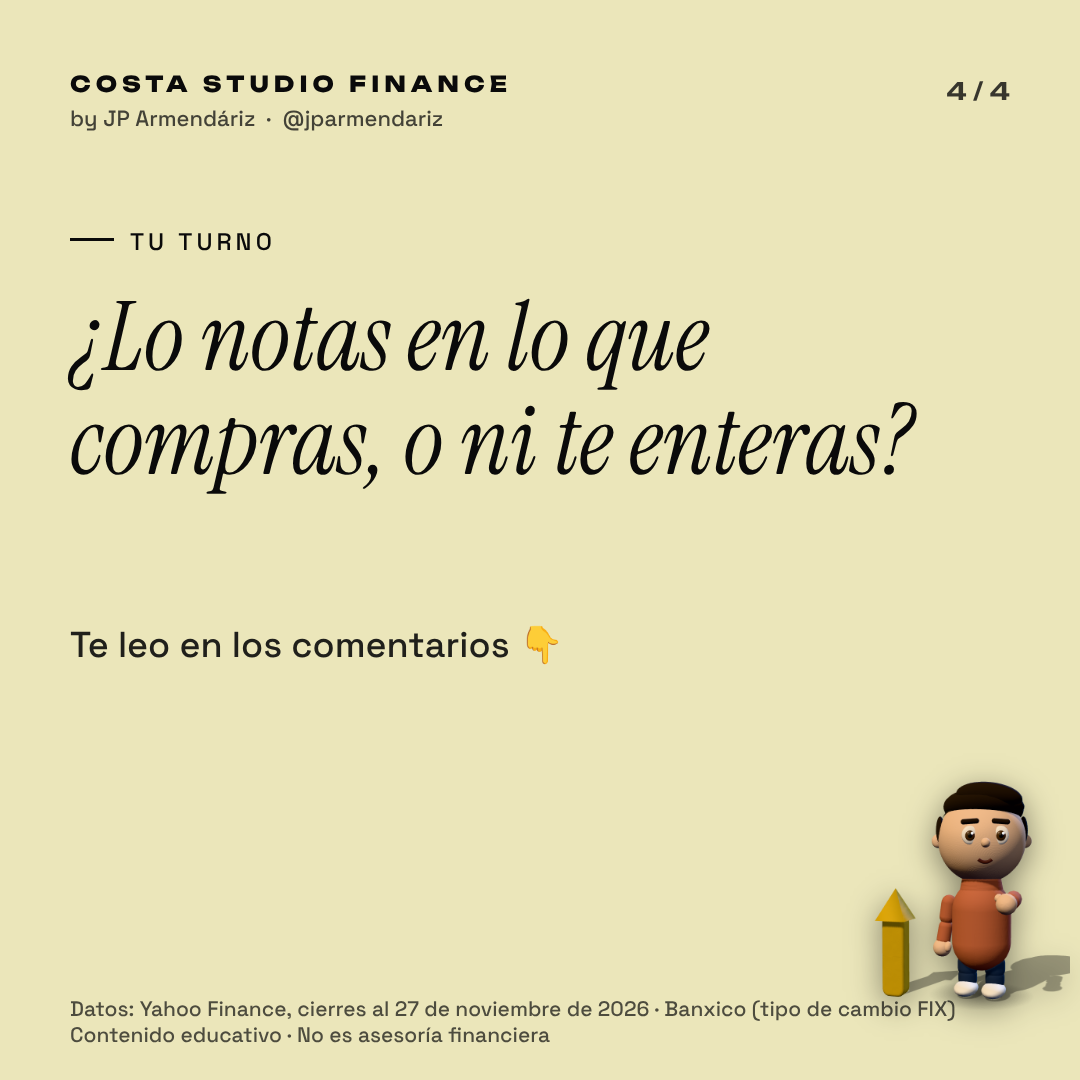
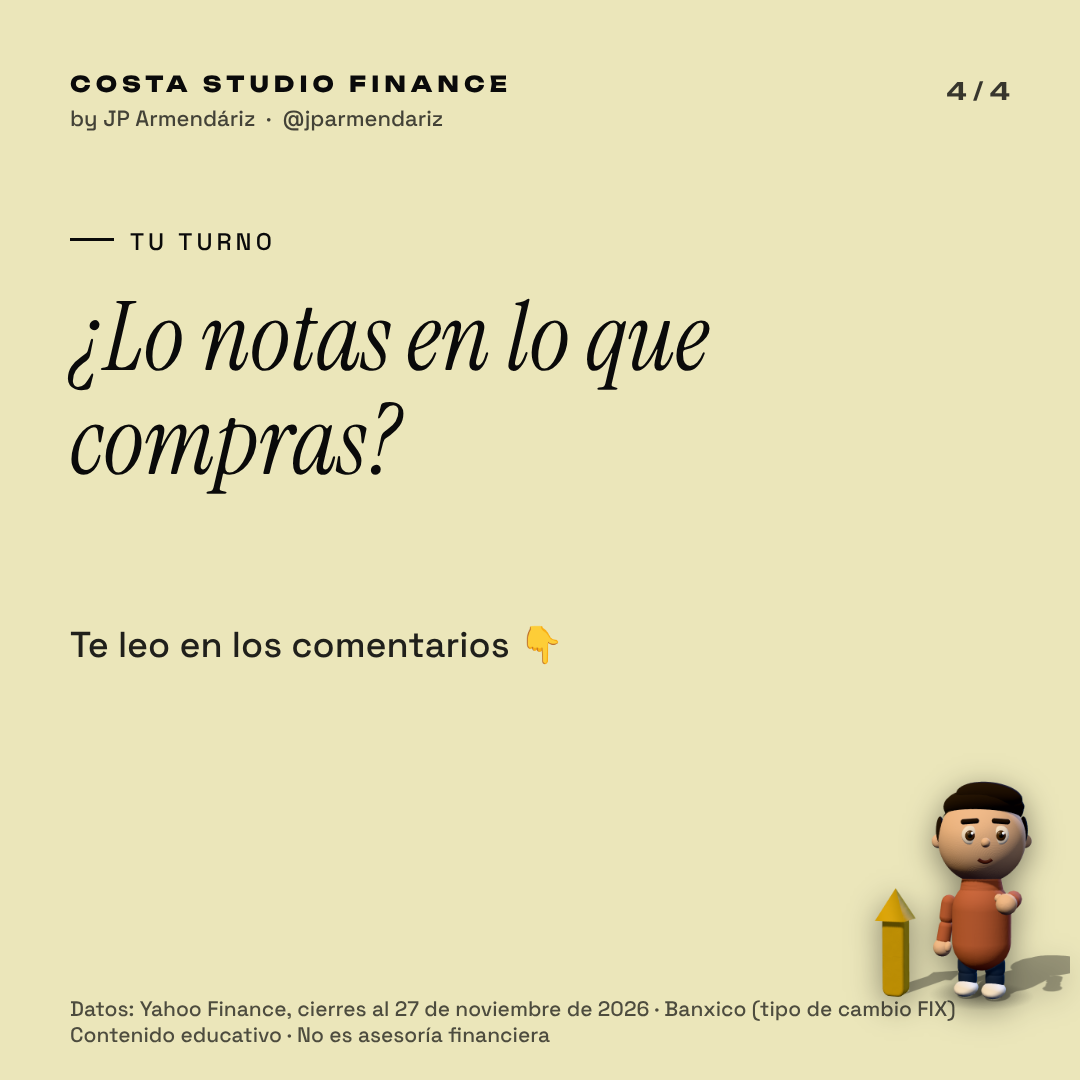
publicacion del sabado: la pregunta de cierre pierde el 'o ni te enteras'
Claude-Session: https://claude.ai/code/session_01FvjQ3qKsfHX4rzw8jtw3Rk

Changed region(s): [[0.5194, 0.3667, 0.8556, 0.4583], [0.3361, 0.3667, 0.4889, 0.4583]]

diff --git a/finance-videos/videos/2026-11-28-POST-PESO/post/publicacion.md b/finance-videos/videos/2026-11-28-POST-PESO/post/publicacion.md
@@ -4,7 +4,7 @@
 ```
 El viernes 27 de noviembre de 2026 el dólar cerró en 19.70 pesos, su nivel más alto en un año. En la semana subió 3.2%, en noviembre 5.7% y en lo que va de 2026, 9.6%. El mínimo del año había sido 16.89 pesos, el 6 de septiembre.
 
-¿Lo notas en lo que compras, o ni te enteras?
+¿Lo notas en lo que compras?
 
 Fuentes: Yahoo Finance (cierres al 27 de noviembre de 2026) y Banxico.
 Contenido educativo. No es asesoría financiera.
